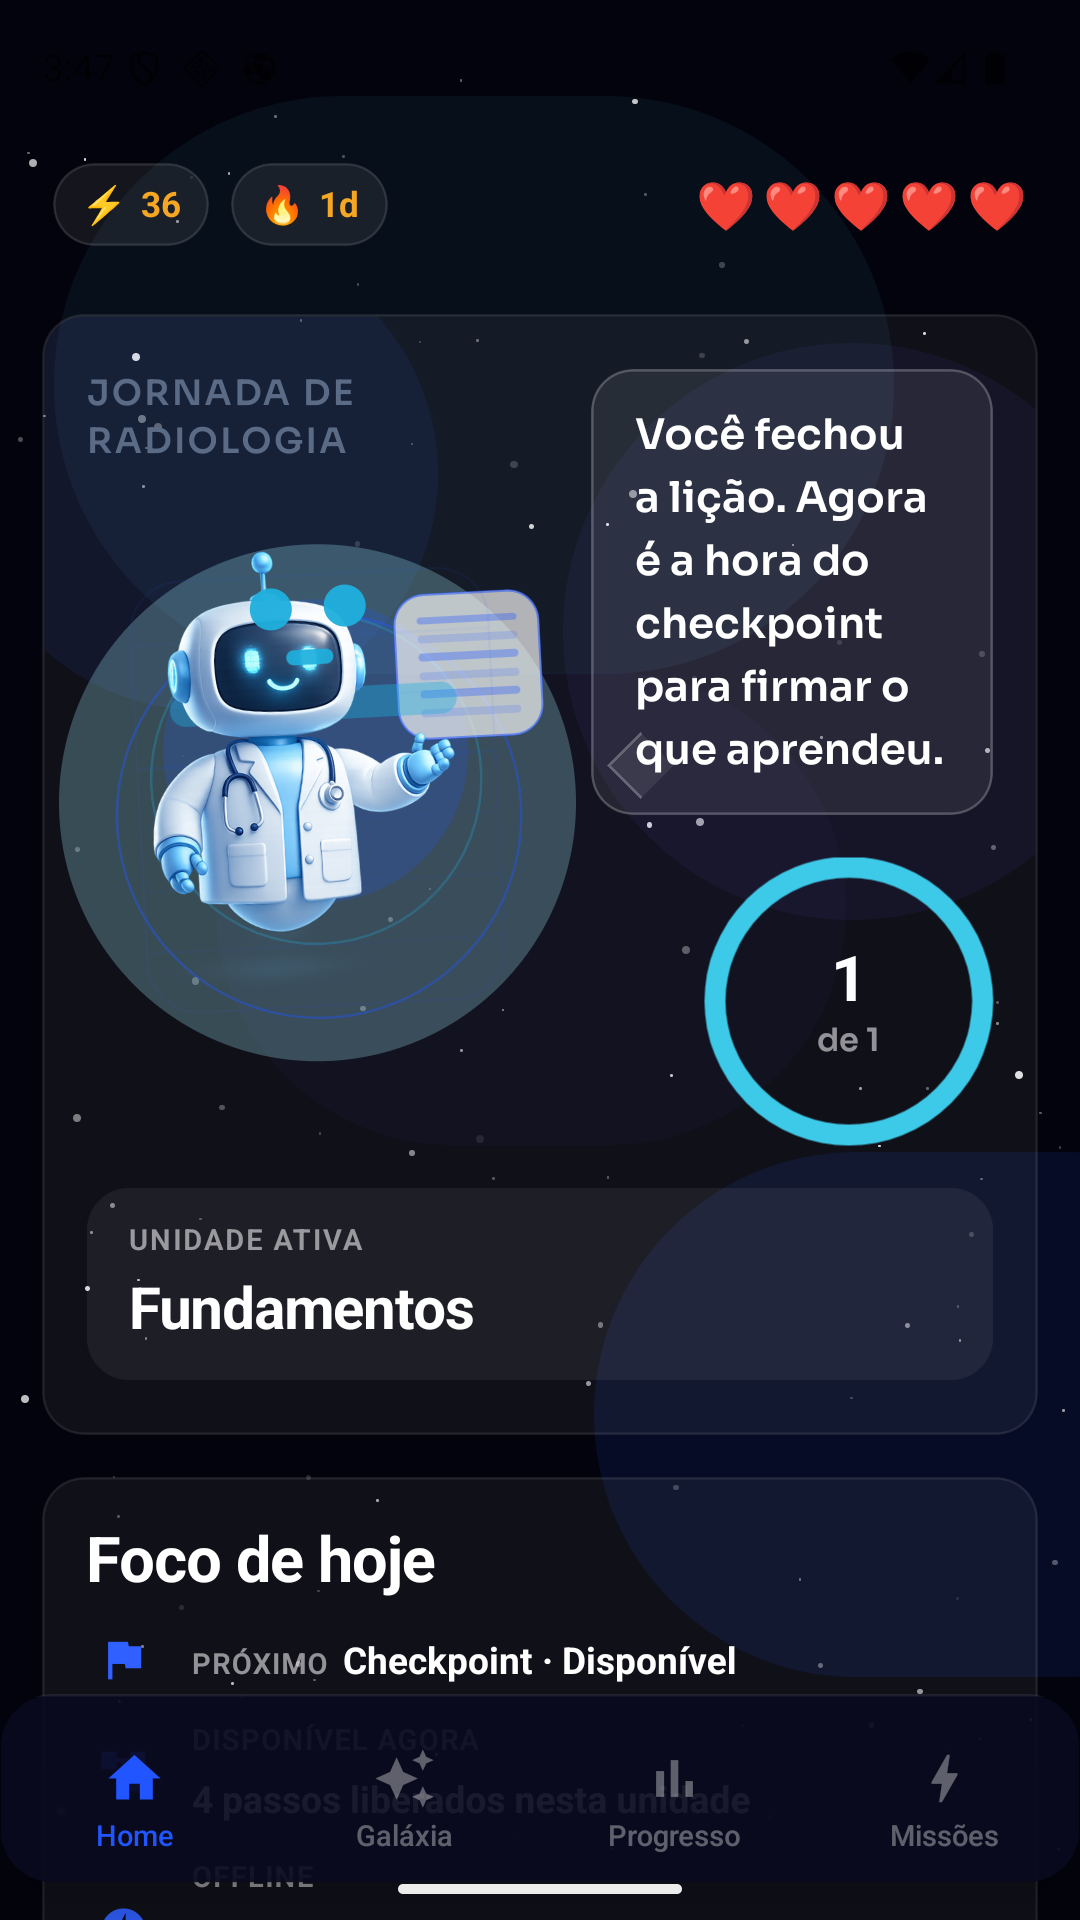
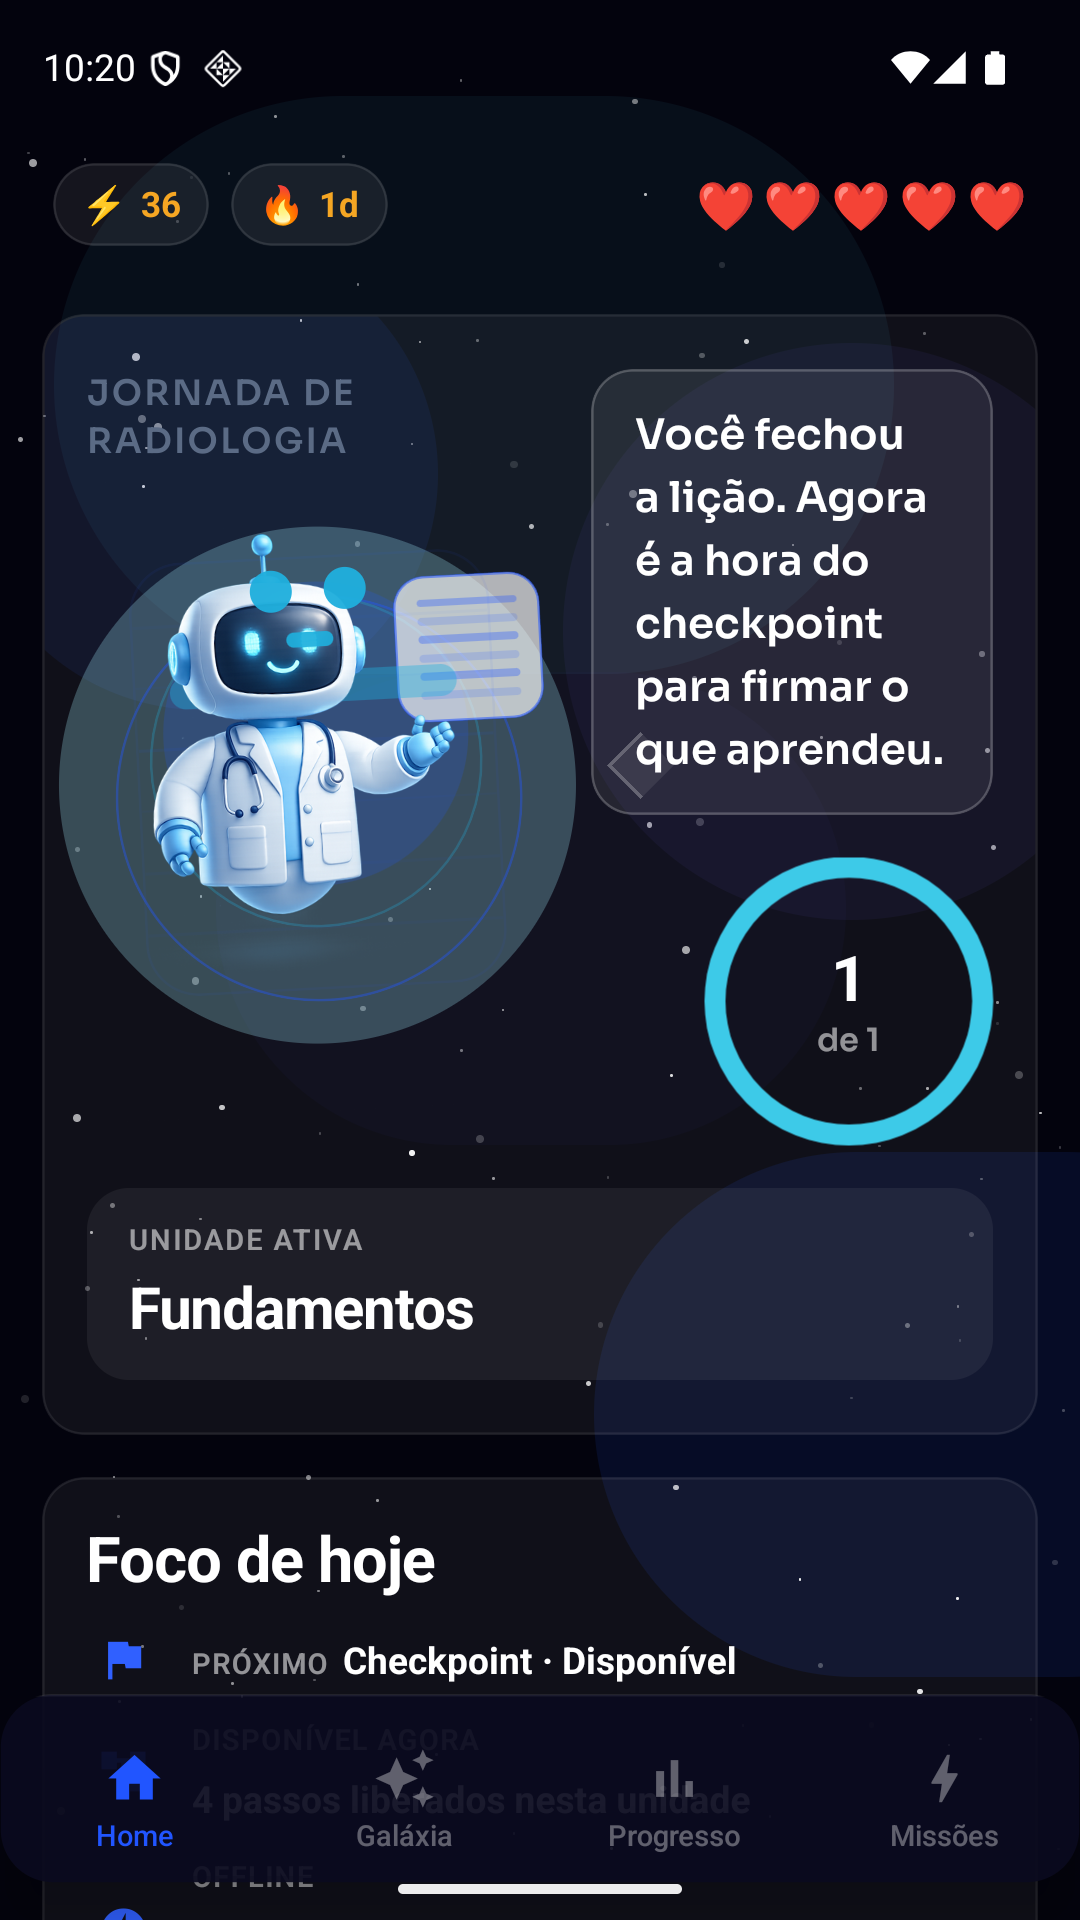
chore(store): regera os screenshots do Play com a barra de status legivel
Os seis anteriores traziam relogio, Wi-Fi, sinal e bateria em conteudo
escuro sobre `#03030d` -- 1,02:1 de contraste. Recapturados em emulador
API 36 forcado a `wm size 1080x1920` (1080x2424 da 2,244:1 e o
normalizador recusa acima do teto de 2:1 do Play), sobre APK Release da
1.3.1 com a correcao `b62f529`, e normalizados por `--spec play`.

O que este caso ensina, e esta na prosa do `ASSETS_DE_LOJA.md`: **o
contrato de assets aprovava os arquivos defeituosos**. Ele mede dimensao,
proporcao, peso e presenca -- nunca legibilidade. Um asset pode passar em
todo contrato que existe e ainda estar errado para o olho humano. Quem
achou foi o smoke da C2, nao um validador.

Duas notas operacionais do pipeline, medidas hoje:

- a primeira execucao logo depois de `wm size` falhou no `tapOn:
  Continuar jornada`; a hierarquia mostrou o CTA em y1505-1652 com a tab
  bar em y1729, ou seja **sem oclusao**. Era transitorio de
  redimensionamento, e a reexecucao com o aparelho assentado passou em
  820s. Nao virou regra de contrato -- teria sido uma regra permanente
  para um defeito inexistente;
- `normalize-screenshots.py` e validador, nao conversor.

Os dois buckets de iPhone tem o mesmo defeito e vem em seguida.

loop validate 9/9 no run run-1785806539218-4a6a8b5a.

diff --git a/docs/store/ASSETS_DE_LOJA.md b/docs/store/ASSETS_DE_LOJA.md
@@ -10,8 +10,23 @@ contrato `radiant-app/scripts/icon-assets-contract.test.mjs` e o contrato roda n
 | --- | --- | --- | --- |
 | Ícone da ficha | [`assets/play-icon-512.png`](assets/play-icon-512.png) | 512×512, PNG 32-bit **com** alpha, ≤ 1024 KB | ✅ 126 KB |
 | Feature graphic | [`assets/feature-graphic.png`](assets/feature-graphic.png) | 1024×500, **sem** alpha | ✅ |
-| Screenshots de telefone (Play) | [`assets/screenshots/`](assets/screenshots/) | ≥ 2, proporção ≤ 2:1, lado 320–3840 | ✅ 6 × 1080×1920 (1,778:1), **regerados em 2026-07-30** |
+| Screenshots de telefone (Play) | [`assets/screenshots/`](assets/screenshots/) | ≥ 2, proporção ≤ 2:1, lado 320–3840 | ✅ 6 × 1080×1920 (1,778:1), **regerados em 2026-08-03** com a barra de status legível |
 | Screenshots de iPhone (App Store) | — | buckets 6,7" e 6,5" | ⚠ **capturados, não normalizados** — ver a seção do lado iOS |
+
+> **Por que foram regerados em 2026-08-03.** Os seis anteriores traziam a barra
+> de status do sistema em conteúdo escuro sobre `#03030d` — relógio, Wi-Fi, sinal
+> e bateria a **1,02:1** de contraste, praticamente invisíveis. A causa era
+> `<StatusBar style="dark" />` no `_layout.tsx` (no `expo-status-bar`, `dark`
+> significa conteúdo escuro, o valor para fundo claro), e com
+> `edgeToEdgeEnabled: true` o app desenha atrás da barra. Corrigido em `b62f529`.
+>
+> **O contrato de assets aprovava os arquivos defeituosos**, e isso é o que vale
+> carregar: ele mede dimensão, proporção, peso e presença — nunca legibilidade.
+> Um asset pode passar em todo contrato que existe e ainda assim estar errado
+> para o olho humano. O achado veio do smoke da C2, não de um validador.
+>
+> Os buckets de iPhone tinham o mesmo defeito e foram tratados na mesma data;
+> ver a seção do lado iOS.
 
 ## Como regerar
 
